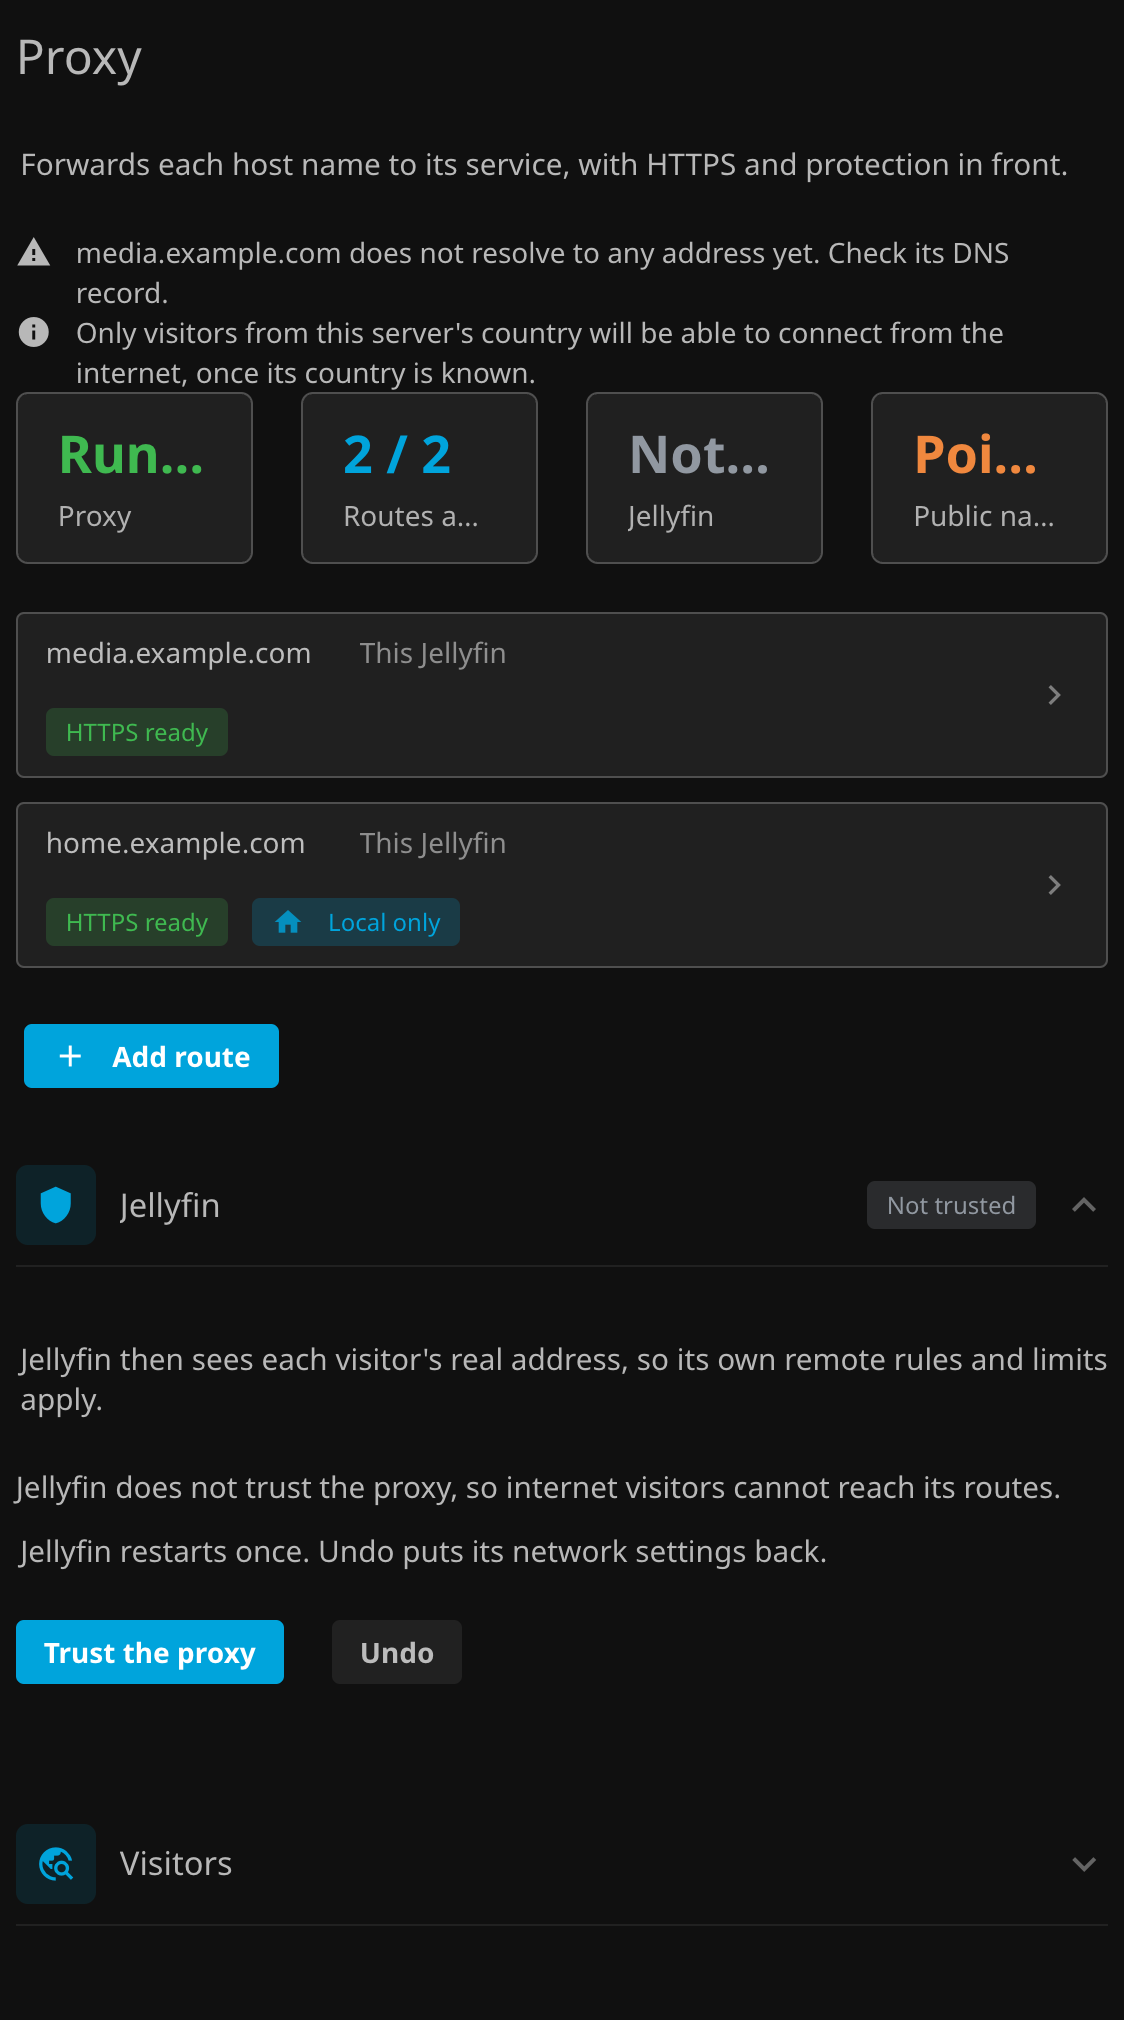
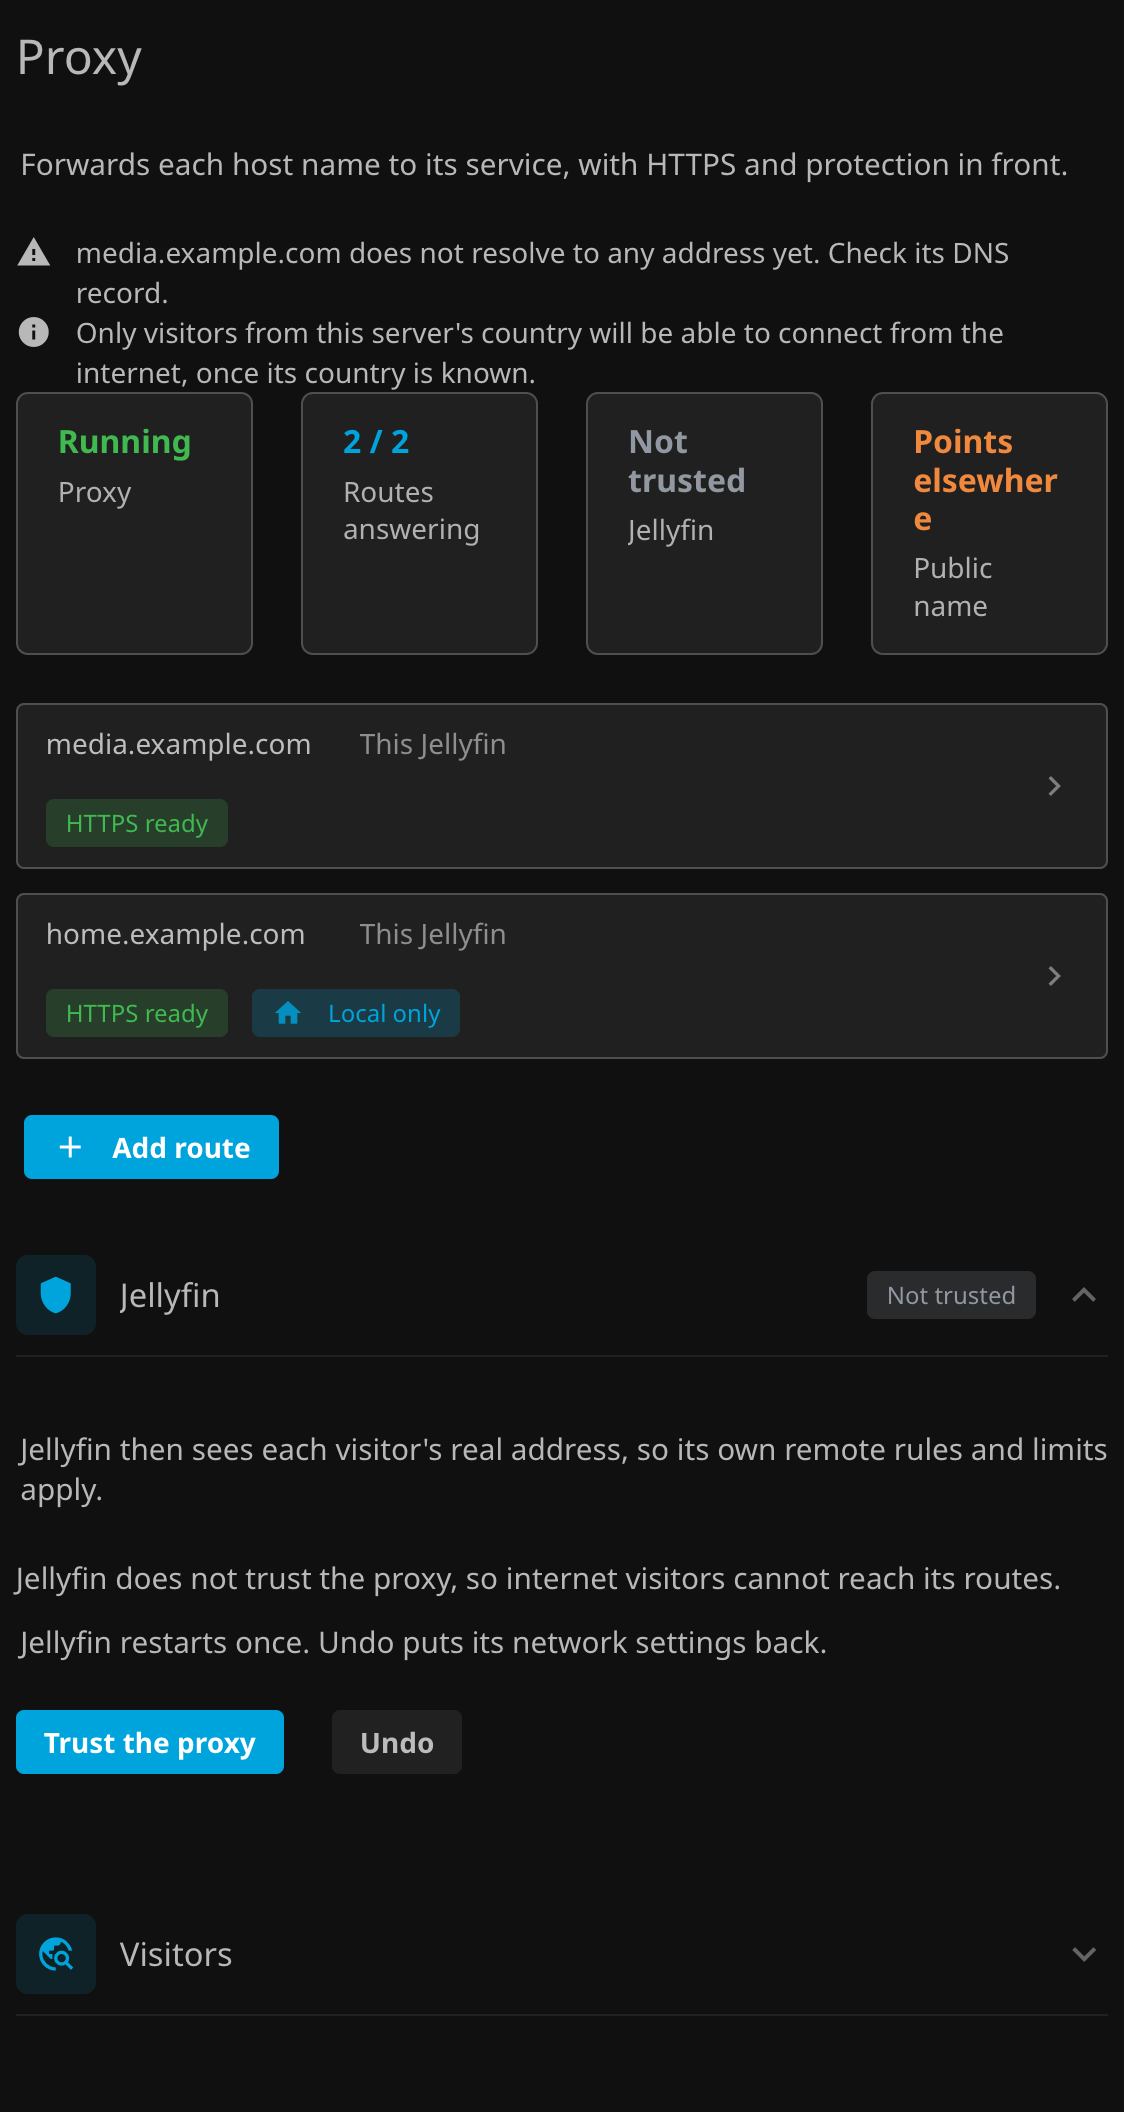
let stacked descriptions drop stolon's margins

diff --git a/Jellyfin.Plugin.Necto/Web/necto_shared.css b/Jellyfin.Plugin.Necto/Web/necto_shared.css
@@ -121,10 +121,11 @@
 /* A column of a tool's blocks, such as an intro, a notice, cards, and a list, kept apart by the standard gap. */
 /* Example: <div class="necto-stack"><div class="fieldDescription"></div><div class="stolon-cards"></div></div> */
 .necto-stack { display: flex; flex-direction: column; gap: var(--stolon-gap-wide); }
-.necto-stack > .fieldDescription,
+/* Stolon gives every description margins with !important, so the stack's own gap needs it too. */
+.pluginConfigurationPage .necto-stack > .fieldDescription,
 .necto-stack > .stolon-info,
 .necto-stack > .stolon-cards,
-.necto-stack > .stolon-button-row { margin-top: 0; margin-bottom: 0; }
+.necto-stack > .stolon-button-row { margin-top: 0 !important; margin-bottom: 0 !important; }
 
 /* necto-card-fit */
 /* A balanced card row keeps every card inside its column, and a card whose value is a word, such as Running, ends it
@@ -139,3 +140,4 @@
 /* Example: <div class="stolon-cards necto-word-cards"><div class="stolon-card"><span class="stolon-card-count">Running</span></div></div> */
 .necto-word-cards .stolon-card-count { font-size: var(--stolon-font-large); white-space: normal; overflow-wrap: anywhere; }
 .necto-word-cards .stolon-card-label { white-space: normal; }
+.pluginConfigurationPage .necto-stack > .fieldDescription { padding-left: 0; }
